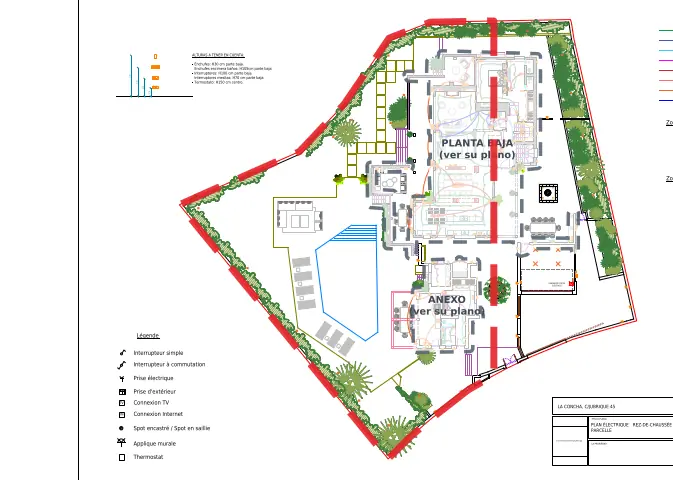
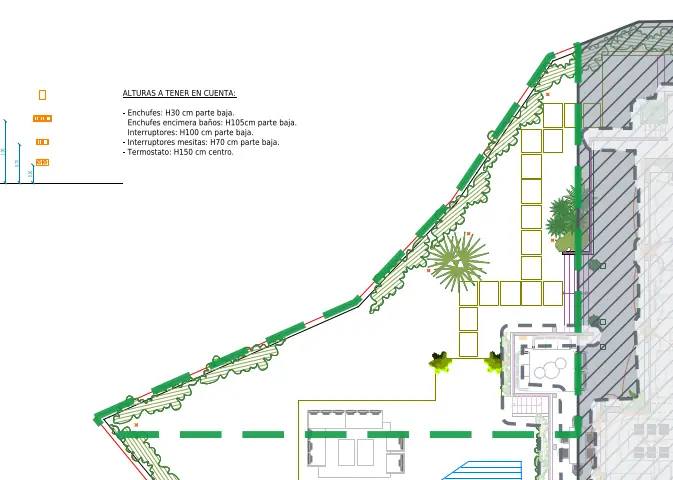
La Concha: exterior accesible en 2 zonas al oeste (norte y sur); el resto, no accesible
Claude-Session: https://claude.ai/code/session_01Jc8wu4JaYkxdfA7jJdb3wN

diff --git a/la-concha/index.html b/la-concha/index.html
@@ -318,7 +318,7 @@ button.chk:hover{background:var(--hot)}
 </main>
 
 <script>
-const DATA={"cfg":{"kind":"electrica","title":"Visor de planos · La Concha","site":{"name":"La Concha","sub":"C/ Jubrique 45 · Instalación eléctrica"},"obraId":"recQNYGyQ1ju7TomO","progressUrl":"https://formularioiec-bff-iec-294739714316.europe-southwest1.run.app/avance?obra=recQNYGyQ1ju7TomO","writeUrl":"https://formularioiec-bff-iec-294739714316.europe-southwest1.run.app/avance","modo":"escritura","imgV":"20261104b","labels":{"l2":"Zona","l2p":"Zonas","a2":"una zona","intro0":"Cada color es una planta. Las zonas reparten cada planta por superficie; el exterior va en dos zonas (oeste y este) y lo ya dibujado en planta baja y anexo se ve atenuado."},"alt0":"Plano general con las hojas de exterior, planta baja, planta alta, sótano y anexo","checklist":[{"id":"tubo","label":"Tubo"},{"id":"caja","label":"Cajas"},{"id":"cable","label":"Cableado"},{"id":"mecanismos","label":"Mecanismos"},{"id":"luminarias","label":"Luminarias"},{"id":"cuadro","label":"Cuadro eléctrico","soloEn":[]}],"checklistProvisional":false},"buildings":[{"id":"EXT","nm":"Exterior","tipo":"EXT","col":2,"poly":[[132.1,432.2],[508.6,432.2],[508.6,165.9],[132.1,165.9]],"lab":[320.4,299.1],"img":"img/edif_EXT.webp"},{"id":"PB","nm":"Planta baja","tipo":"PB","col":1,"poly":[[674.0,322.9],[862.3,322.9],[862.3,189.8],[674.0,189.8]],"lab":[768.2,256.4],"img":"img/edif_PB.webp"},{"id":"PA","nm":"Planta alta","tipo":"PA","col":3,"poly":[[194.0,636.1],[382.2,636.1],[382.2,502.9],[194.0,502.9]],"lab":[288.1,569.5],"img":"img/edif_PA.webp"},{"id":"SOT","nm":"Sótano","tipo":"SOT","col":5,"poly":[[193.6,809.5],[334.8,809.5],[334.8,709.6],[193.6,709.6]],"lab":[264.2,759.5],"img":"img/edif_SOT.webp"},{"id":"ANX","nm":"Anexo","tipo":"ANX","col":4,"poly":[[996.3,292.8],[1090.5,292.8],[1090.5,226.3],[996.3,226.3]],"lab":[1043.4,259.6],"img":"img/edif_ANX.webp"}],"tipos":{"EXT":{"cubs":[{"id":"1","img":"img/EXT_Z1.webp","poly":[[665.2,668.3],[601.4,717.6],[565.1,748.9],[528.7,785.4],[172.7,355.7],[377.4,265.8],[453.4,186.0],[530.1,74.3],[600.3,47.1],[708.6,45.1],[708.6,644.1]],"lab":[378.0,405.0],"m2":860},{"id":"2","img":"img/EXT_Z2.webp","poly":[[839.0,42.7],[951.9,552.0],[842.8,583.5],[773.1,612.1],[708.6,644.1],[708.6,45.1]],"lab":[794.3,515.1],"m2":404}]},"PB":{"cubs":[{"id":"1","img":"img/PB_Z1.webp","poly":[[527.2,41.5],[531.4,20.2],[654.7,24.0],[654.7,199.4],[503.1,199.4],[503.1,167.7],[497.4,163.4],[497.4,102.5],[419.4,101.0],[413.8,89.7],[490.3,89.7],[491.7,44.3]],"lab":[576.1,132.9],"m2":35},{"id":"2","img":"img/PB_Z2.webp","poly":[[654.7,24.0],[856.0,30.2],[856.0,167.7],[654.7,167.7]],"lab":[755.3,98.9],"m2":35},{"id":"3","img":"img/PB_Z3.webp","poly":[[654.7,384.8],[497.5,384.8],[503.1,377.4],[503.1,289.6],[497.4,285.3],[497.4,259.8],[503.1,255.5],[503.1,199.4],[654.7,199.4]],"lab":[578.9,333.5],"m2":35},{"id":"4","img":"img/PB_Z4.webp","poly":[[654.7,308.4],[654.7,167.7],[856.0,167.7],[856.0,308.4]],"lab":[755.3,238.1],"m2":35},{"id":"5","img":"img/PB_Z5.webp","poly":[[792.2,401.5],[792.2,472.4],[654.7,472.4],[654.7,308.4],[856.0,308.4],[856.0,395.9]],"lab":[755.3,352.1],"m2":35},{"id":"6","img":"img/PB_Z6.webp","poly":[[435.0,643.9],[430.8,703.5],[422.3,700.6],[420.9,669.5],[345.7,666.6],[347.2,532.0],[289.1,527.7],[287.6,397.3],[422.3,397.3],[419.4,405.8],[297.6,407.2],[297.6,488.0],[364.2,492.3],[357.1,496.5],[358.5,658.1],[428.0,656.7],[428.0,617.0],[435.0,612.8],[435.0,540.5],[428.0,536.2],[428.0,513.5],[496.0,510.7],[503.1,505.0],[497.5,384.8],[545.5,384.8],[545.5,643.9]],"lab":[490.3,576.6],"m2":35},{"id":"7","img":"img/PB_Z7.webp","poly":[[545.5,643.9],[545.5,384.8],[654.7,384.8],[654.7,643.9]],"lab":[600.1,514.4],"m2":35},{"id":"8","img":"img/PB_Z8.webp","poly":[[792.2,652.4],[972.2,653.9],[973.6,560.3],[984.9,557.5],[984.9,685.0],[980.7,666.6],[829.0,666.6],[816.3,687.9],[800.7,692.1],[786.5,682.2],[785.1,643.9],[654.7,643.9],[654.7,472.4],[792.2,472.4]],"lab":[723.5,602.1],"m2":35}]},"PA":{"cubs":[{"id":"1","img":"img/PA_Z1.webp","poly":[[829.9,84.5],[829.9,199.9],[606.4,199.9],[606.4,70.7],[625.8,70.4],[630.1,80.3]],"lab":[718.2,142.2],"m2":33},{"id":"2","img":"img/PA_Z2.webp","poly":[[469.9,318.6],[469.9,180.9],[535.1,176.7],[539.4,71.8],[606.4,70.7],[606.4,318.6]],"lab":[538.2,249.8],"m2":33},{"id":"3","img":"img/PA_Z3.webp","poly":[[829.9,318.6],[606.4,318.6],[606.4,199.9],[829.9,199.9]],"lab":[718.2,259.3],"m2":33},{"id":"4","img":"img/PA_Z4.webp","poly":[[535.6,508.5],[535.1,465.8],[469.9,460.2],[469.9,318.6],[625.3,318.6],[625.3,508.5]],"lab":[547.6,389.4],"m2":33},{"id":"5","img":"img/PA_Z5.webp","poly":[[761.9,461.6],[686.8,463.0],[686.2,508.5],[625.3,508.5],[625.3,318.6],[829.9,318.6],[829.9,373.7],[764.7,379.4]],"lab":[694.3,420.5],"m2":33},{"id":"6","img":"img/PA_Z6.webp","poly":[[683.9,689.8],[536.5,687.0],[542.2,607.6],[536.5,603.3],[535.6,508.5],[686.2,508.5]],"lab":[610.8,555.9],"m2":33}]},"SOT":{"cubs":[{"id":"1","img":"img/SOT_Z1.webp","poly":[[572.1,351.8],[572.1,47.3],[733.4,47.3],[733.4,351.8]],"lab":[652.7,199.5],"m2":34},{"id":"2","img":"img/SOT_Z2.webp","poly":[[935.5,192.8],[1003.5,192.8],[1003.5,334.5],[960.0,330.7],[958.1,223.0],[833.4,224.9],[832.6,351.8],[733.4,351.8],[733.4,47.3],[837.2,47.3],[842.9,109.6],[931.7,113.4]],"lab":[868.4,207.9],"m2":34},{"id":"3","img":"img/SOT_Z3.webp","poly":[[206.2,334.5],[281.8,328.8],[281.8,253.3],[442.3,253.3],[448.0,213.6],[499.0,213.6],[504.7,47.3],[572.1,47.3],[572.1,358.0],[207.0,358.0]],"lab":[537.0,130.4],"m2":34},{"id":"4","img":"img/SOT_Z4.webp","poly":[[266.6,391.2],[208.1,391.2],[207.0,358.0],[572.1,358.0],[572.1,518.4],[281.8,518.4],[281.8,398.8]],"lab":[426.9,458.6],"m2":34},{"id":"5","img":"img/SOT_Z5.webp","poly":[[831.5,515.9],[652.1,519.7],[646.4,565.0],[584.0,565.0],[582.2,774.8],[572.1,775.1],[572.1,351.8],[832.6,351.8]],"lab":[610.7,542.4],"m2":34},{"id":"6","img":"img/SOT_Z6.webp","poly":[[459.4,744.5],[404.6,740.8],[404.6,623.6],[383.8,617.9],[383.8,576.4],[281.8,570.7],[281.8,518.4],[572.1,518.4],[572.1,775.1],[465.0,778.6]],"lab":[488.3,682.2],"m2":34}]},"ANX":{"cubs":[{"id":"1","img":"img/ANX_Z1.webp","poly":[[877.6,439.7],[460.8,439.7],[459.3,336.9],[535.9,328.4],[538.7,147.0],[748.5,141.3],[757.0,127.1],[768.3,141.3],[870.4,141.3]],"lab":[705.0,237.7],"m2":34},{"id":"2","img":"img/ANX_Z2.webp","poly":[[878.9,492.8],[895.9,501.3],[895.9,518.4],[825.0,526.9],[825.0,722.5],[465.0,728.1],[460.8,439.7],[877.6,439.7]],"lab":[644.3,624.7],"m2":34}]}}};
+const DATA={"cfg":{"kind":"electrica","title":"Visor de planos · La Concha","site":{"name":"La Concha","sub":"C/ Jubrique 45 · Instalación eléctrica"},"obraId":"recQNYGyQ1ju7TomO","progressUrl":"https://formularioiec-bff-iec-294739714316.europe-southwest1.run.app/avance?obra=recQNYGyQ1ju7TomO","writeUrl":"https://formularioiec-bff-iec-294739714316.europe-southwest1.run.app/avance","modo":"escritura","imgV":"20261104c","labels":{"l2":"Zona","l2p":"Zonas","a2":"una zona","intro0":"Cada color es una planta. Las zonas reparten cada planta por superficie; el exterior accesible va en dos zonas (norte y sur del jardín oeste) y lo ya dibujado en planta baja y anexo se ve atenuado."},"alt0":"Plano general con las hojas de exterior, planta baja, planta alta, sótano y anexo","checklist":[{"id":"tubo","label":"Tubo"},{"id":"caja","label":"Cajas"},{"id":"cable","label":"Cableado"},{"id":"mecanismos","label":"Mecanismos"},{"id":"luminarias","label":"Luminarias"},{"id":"cuadro","label":"Cuadro eléctrico","soloEn":[]}],"checklistProvisional":false},"buildings":[{"id":"EXT","nm":"Exterior","tipo":"EXT","col":2,"poly":[[132.1,432.2],[508.6,432.2],[508.6,165.9],[132.1,165.9]],"lab":[320.4,299.1],"img":"img/edif_EXT.webp"},{"id":"PB","nm":"Planta baja","tipo":"PB","col":1,"poly":[[674.0,322.9],[862.3,322.9],[862.3,189.8],[674.0,189.8]],"lab":[768.2,256.4],"img":"img/edif_PB.webp"},{"id":"PA","nm":"Planta alta","tipo":"PA","col":3,"poly":[[194.0,636.1],[382.2,636.1],[382.2,502.9],[194.0,502.9]],"lab":[288.1,569.5],"img":"img/edif_PA.webp"},{"id":"SOT","nm":"Sótano","tipo":"SOT","col":5,"poly":[[193.6,809.5],[334.8,809.5],[334.8,709.6],[193.6,709.6]],"lab":[264.2,759.5],"img":"img/edif_SOT.webp"},{"id":"ANX","nm":"Anexo","tipo":"ANX","col":4,"poly":[[996.3,292.8],[1090.5,292.8],[1090.5,226.3],[996.3,226.3]],"lab":[1043.4,259.6],"img":"img/edif_ANX.webp"}],"tipos":{"EXT":{"cubs":[{"id":"1","img":"img/EXT_Z1.webp","poly":[[172.7,355.7],[377.4,265.8],[453.4,186.0],[530.1,74.3],[552.7,65.5],[552.7,369.1],[183.9,369.1]],"lab":[430.5,304.4],"m2":226},{"id":"2","img":"img/EXT_Z2.webp","poly":[[552.7,761.1],[528.7,785.4],[183.9,369.1],[552.7,369.1]],"lab":[427.5,485.9],"m2":400}]},"PB":{"cubs":[{"id":"1","img":"img/PB_Z1.webp","poly":[[527.2,41.5],[531.4,20.2],[654.7,24.0],[654.7,199.4],[503.1,199.4],[503.1,167.7],[497.4,163.4],[497.4,102.5],[419.4,101.0],[413.8,89.7],[490.3,89.7],[491.7,44.3]],"lab":[576.1,132.9],"m2":35},{"id":"2","img":"img/PB_Z2.webp","poly":[[654.7,24.0],[856.0,30.2],[856.0,167.7],[654.7,167.7]],"lab":[755.3,98.9],"m2":35},{"id":"3","img":"img/PB_Z3.webp","poly":[[654.7,384.8],[497.5,384.8],[503.1,377.4],[503.1,289.6],[497.4,285.3],[497.4,259.8],[503.1,255.5],[503.1,199.4],[654.7,199.4]],"lab":[578.9,333.5],"m2":35},{"id":"4","img":"img/PB_Z4.webp","poly":[[654.7,308.4],[654.7,167.7],[856.0,167.7],[856.0,308.4]],"lab":[755.3,238.1],"m2":35},{"id":"5","img":"img/PB_Z5.webp","poly":[[792.2,401.5],[792.2,472.4],[654.7,472.4],[654.7,308.4],[856.0,308.4],[856.0,395.9]],"lab":[755.3,352.1],"m2":35},{"id":"6","img":"img/PB_Z6.webp","poly":[[435.0,643.9],[430.8,703.5],[422.3,700.6],[420.9,669.5],[345.7,666.6],[347.2,532.0],[289.1,527.7],[287.6,397.3],[422.3,397.3],[419.4,405.8],[297.6,407.2],[297.6,488.0],[364.2,492.3],[357.1,496.5],[358.5,658.1],[428.0,656.7],[428.0,617.0],[435.0,612.8],[435.0,540.5],[428.0,536.2],[428.0,513.5],[496.0,510.7],[503.1,505.0],[497.5,384.8],[545.5,384.8],[545.5,643.9]],"lab":[490.3,576.6],"m2":35},{"id":"7","img":"img/PB_Z7.webp","poly":[[545.5,643.9],[545.5,384.8],[654.7,384.8],[654.7,643.9]],"lab":[600.1,514.4],"m2":35},{"id":"8","img":"img/PB_Z8.webp","poly":[[792.2,652.4],[972.2,653.9],[973.6,560.3],[984.9,557.5],[984.9,685.0],[980.7,666.6],[829.0,666.6],[816.3,687.9],[800.7,692.1],[786.5,682.2],[785.1,643.9],[654.7,643.9],[654.7,472.4],[792.2,472.4]],"lab":[723.5,602.1],"m2":35}]},"PA":{"cubs":[{"id":"1","img":"img/PA_Z1.webp","poly":[[829.9,84.5],[829.9,199.9],[606.4,199.9],[606.4,70.7],[625.8,70.4],[630.1,80.3]],"lab":[718.2,142.2],"m2":33},{"id":"2","img":"img/PA_Z2.webp","poly":[[469.9,318.6],[469.9,180.9],[535.1,176.7],[539.4,71.8],[606.4,70.7],[606.4,318.6]],"lab":[538.2,249.8],"m2":33},{"id":"3","img":"img/PA_Z3.webp","poly":[[829.9,318.6],[606.4,318.6],[606.4,199.9],[829.9,199.9]],"lab":[718.2,259.3],"m2":33},{"id":"4","img":"img/PA_Z4.webp","poly":[[535.6,508.5],[535.1,465.8],[469.9,460.2],[469.9,318.6],[625.3,318.6],[625.3,508.5]],"lab":[547.6,389.4],"m2":33},{"id":"5","img":"img/PA_Z5.webp","poly":[[761.9,461.6],[686.8,463.0],[686.2,508.5],[625.3,508.5],[625.3,318.6],[829.9,318.6],[829.9,373.7],[764.7,379.4]],"lab":[694.3,420.5],"m2":33},{"id":"6","img":"img/PA_Z6.webp","poly":[[683.9,689.8],[536.5,687.0],[542.2,607.6],[536.5,603.3],[535.6,508.5],[686.2,508.5]],"lab":[610.8,555.9],"m2":33}]},"SOT":{"cubs":[{"id":"1","img":"img/SOT_Z1.webp","poly":[[572.1,351.8],[572.1,47.3],[733.4,47.3],[733.4,351.8]],"lab":[652.7,199.5],"m2":34},{"id":"2","img":"img/SOT_Z2.webp","poly":[[935.5,192.8],[1003.5,192.8],[1003.5,334.5],[960.0,330.7],[958.1,223.0],[833.4,224.9],[832.6,351.8],[733.4,351.8],[733.4,47.3],[837.2,47.3],[842.9,109.6],[931.7,113.4]],"lab":[868.4,207.9],"m2":34},{"id":"3","img":"img/SOT_Z3.webp","poly":[[206.2,334.5],[281.8,328.8],[281.8,253.3],[442.3,253.3],[448.0,213.6],[499.0,213.6],[504.7,47.3],[572.1,47.3],[572.1,358.0],[207.0,358.0]],"lab":[537.0,130.4],"m2":34},{"id":"4","img":"img/SOT_Z4.webp","poly":[[266.6,391.2],[208.1,391.2],[207.0,358.0],[572.1,358.0],[572.1,518.4],[281.8,518.4],[281.8,398.8]],"lab":[426.9,458.6],"m2":34},{"id":"5","img":"img/SOT_Z5.webp","poly":[[831.5,515.9],[652.1,519.7],[646.4,565.0],[584.0,565.0],[582.2,774.8],[572.1,775.1],[572.1,351.8],[832.6,351.8]],"lab":[610.7,542.4],"m2":34},{"id":"6","img":"img/SOT_Z6.webp","poly":[[459.4,744.5],[404.6,740.8],[404.6,623.6],[383.8,617.9],[383.8,576.4],[281.8,570.7],[281.8,518.4],[572.1,518.4],[572.1,775.1],[465.0,778.6]],"lab":[488.3,682.2],"m2":34}]},"ANX":{"cubs":[{"id":"1","img":"img/ANX_Z1.webp","poly":[[877.6,439.7],[460.8,439.7],[459.3,336.9],[535.9,328.4],[538.7,147.0],[748.5,141.3],[757.0,127.1],[768.3,141.3],[870.4,141.3]],"lab":[705.0,237.7],"m2":34},{"id":"2","img":"img/ANX_Z2.webp","poly":[[878.9,492.8],[895.9,501.3],[895.9,518.4],[825.0,526.9],[825.0,722.5],[465.0,728.1],[460.8,439.7],[877.6,439.7]],"lab":[644.3,624.7],"m2":34}]}}};
 (()=>{
 addEventListener('error',()=>{const l=document.getElementById('loading'); if(l&&l.isConnected) l.textContent='Este navegador no puede abrir el visor. Actualízalo o prueba con Chrome o Safari recientes.';});
 const SW=1191, SH=842, NS='http://www.w3.org/2000/svg';
